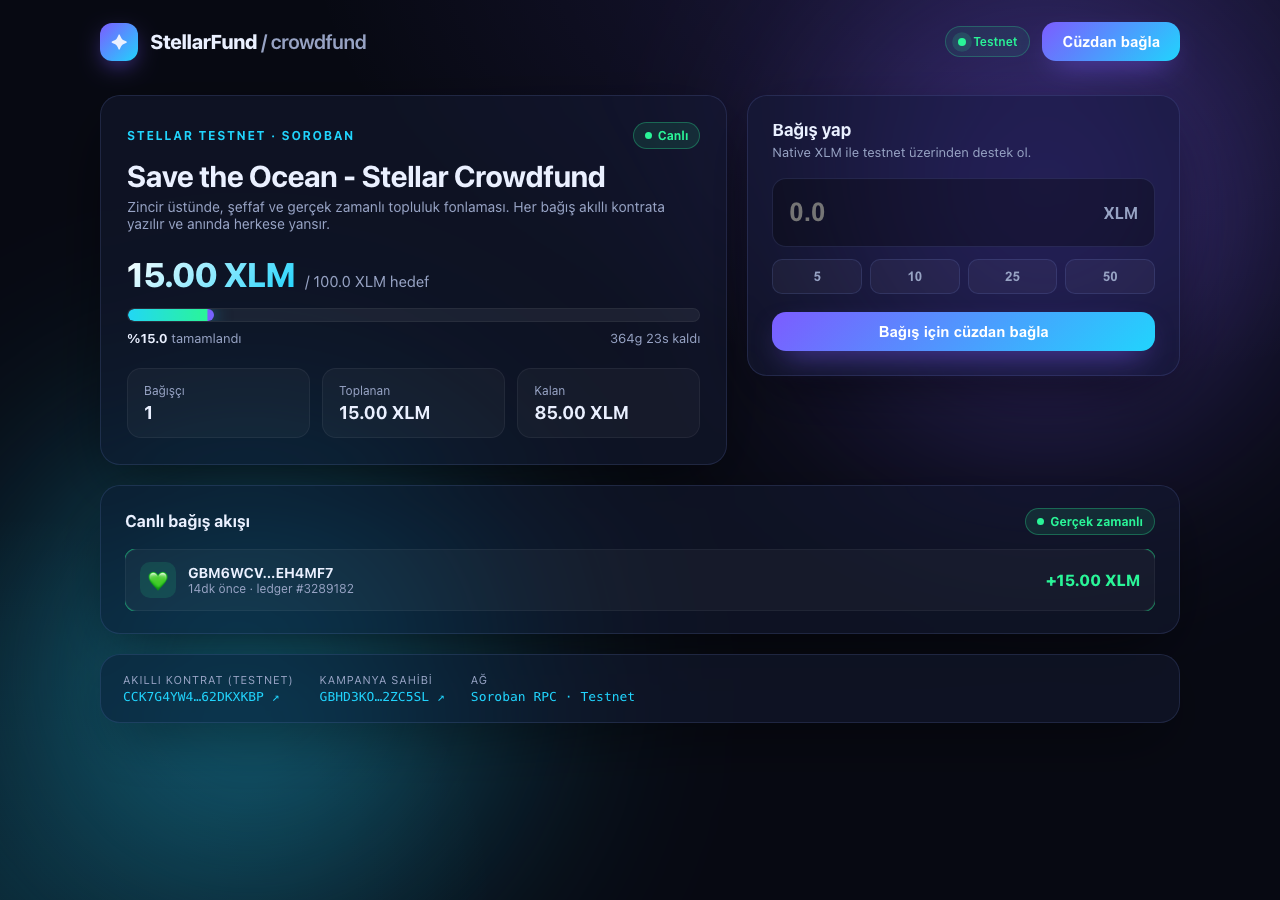
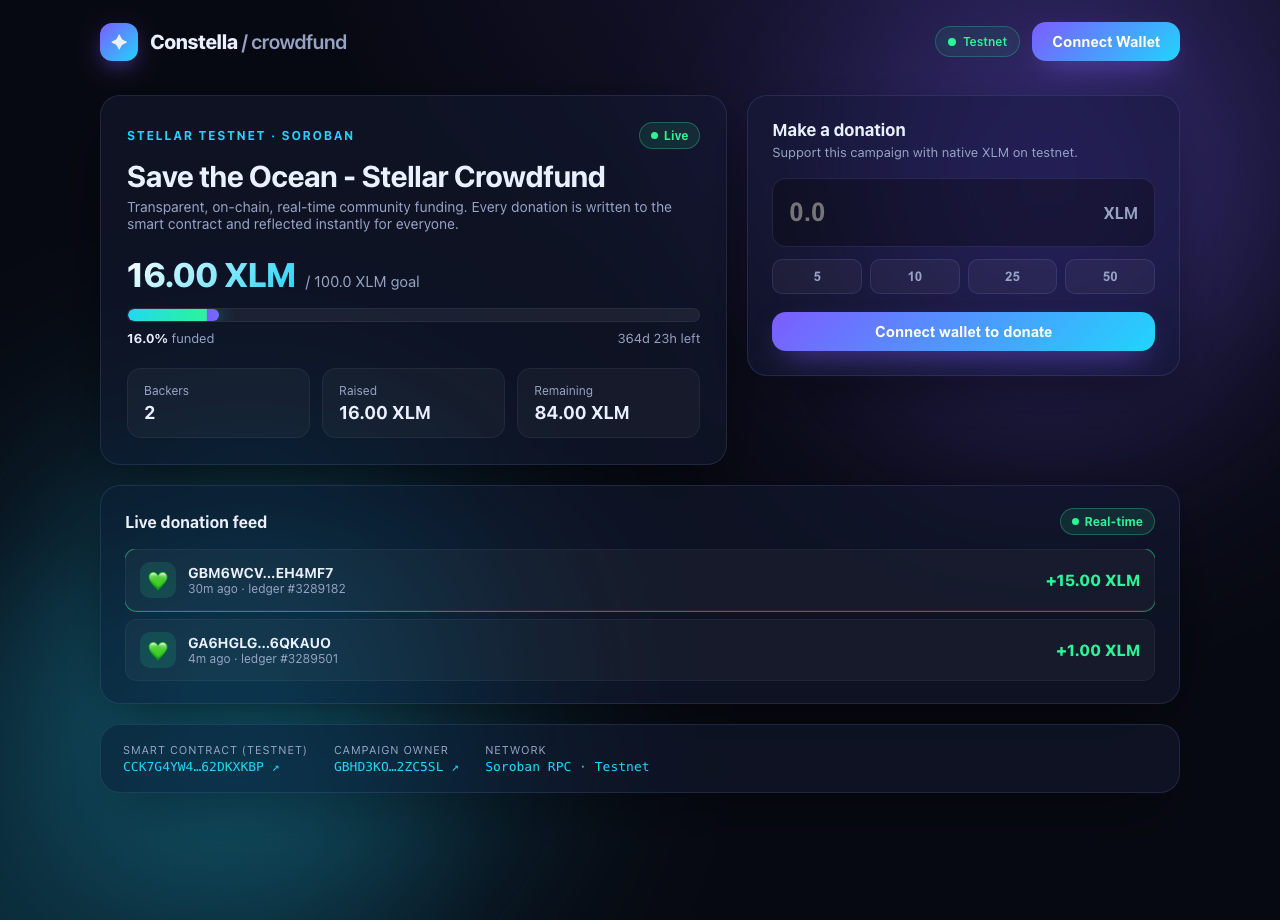
rebrand to Constella + English docs and donate-flow screenshots
App, title, README ve deploy.sh içinde isim Constella oldu; README
İngilizceye çevrildi; pending/success işlem ekranı görüntüleri eklendi.

diff --git a/frontend/index.html b/frontend/index.html
@@ -4,8 +4,8 @@
     <meta charset="UTF-8" />
     <link rel="icon" type="image/svg+xml" href="/favicon.svg" />
     <meta name="viewport" content="width=device-width, initial-scale=1.0" />
-    <meta name="description" content="StellarFund — real-time, transparent community crowdfunding on Stellar Soroban." />
-    <title>StellarFund · Soroban Crowdfunding</title>
+    <meta name="description" content="Constella — real-time, transparent community crowdfunding on Stellar Soroban." />
+    <title>Constella · Soroban Crowdfunding</title>
   </head>
   <body>
     <div id="root"></div>

diff --git a/frontend/src/App.tsx b/frontend/src/App.tsx
@@ -123,7 +123,7 @@ export default function App() {
           <div className="brand">
             <div className="logo">✦</div>
             <div>
-              StellarFund <span className="dim">/ crowdfund</span>
+              Constella <span className="dim">/ crowdfund</span>
             </div>
           </div>
           <div className="topbar-right">

diff --git a/README.md b/README.md
@@ -1,145 +1,151 @@
-# StellarFund — Soroban Crowdfunding dApp
+# Constella — Soroban Crowdfunding dApp
 
-> Stellar **Soroban** akıllı kontratı üzerinde çalışan, çoklu cüzdan destekli, **gerçek zamanlı** topluluk fonlama uygulaması. Her bağış zincire yazılır, kontrat event'leri canlı olarak akışa düşer ve ilerleme çubuğu anında güncellenir.
+> A multi-wallet, **real-time** community crowdfunding app running on a Stellar **Soroban** smart contract. Every donation is written on-chain, contract events stream into a live feed, and the progress bar updates instantly.
 
-Bu proje **Rise In · Stellar — Level 2 (Yellow Belt)** gereksinimlerini karşılamak için geliştirilmiştir.
+Built to satisfy the **Rise In · Stellar — Level 2 (Yellow Belt)** requirements.
 
 ---
 
-## 🔗 Önemli Bilgiler (Submission)
+## 🔗 Submission Info
 
 | | |
 |---|---|
-| **Deploy edilmiş kontrat (Testnet)** | [`CCK7G4YW4SYV5BEGMIHWRMXHRXYHIB7PIWEO76H7FLJAYSOK62DKXKBP`](https://stellar.expert/explorer/testnet/contract/CCK7G4YW4SYV5BEGMIHWRMXHRXYHIB7PIWEO76H7FLJAYSOK62DKXKBP) |
[2 lines of base64/hex data omitted]
-| **Ağ** | Stellar Testnet · Soroban RPC |
-| **Bağış token'ı** | Native XLM (Stellar Asset Contract) |
-| **Live demo** | _(opsiyonel — Vercel/Netlify'a deploy edilirse buraya eklenecek)_ |
+| **Deployed contract (Testnet)** | [`CCK7G4YW4SYV5BEGMIHWRMXHRXYHIB7PIWEO76H7FLJAYSOK62DKXKBP`](https://stellar.expert/explorer/testnet/contract/CCK7G4YW4SYV5BEGMIHWRMXHRXYHIB7PIWEO76H7FLJAYSOK62DKXKBP) |
[2 lines of base64/hex data omitted]
+| **Network** | Stellar Testnet · Soroban RPC |
+| **Donation token** | Native XLM (Stellar Asset Contract) |
+| **Live demo** | _(optional — to be added if deployed to Vercel/Netlify)_ |
 
 ---
 
-## 📸 Ekran Görüntüleri
+## 📸 Screenshots
 
-### Mevcut cüzdan seçenekleri (çoklu cüzdan)
-StellarWalletsKit ile Freighter, xBull, Albedo, LOBSTR, Rabet ve Hana desteklenir:
+### Available wallet options (multi-wallet)
+Powered by StellarWalletsKit — Freighter, xBull, Albedo, LOBSTR, Rabet and Hana:
 
-![Cüzdan seçenekleri](docs/screenshots/wallets.png)
+![Wallet options](docs/screenshots/wallets.png)
 
-### Ana ekran — canlı ilerleme & bağış akışı
-![Uygulama](docs/screenshots/app.png)
+### Main screen — live progress & donation feed
+![App](docs/screenshots/app.png)
 
----
+### Transaction status — pending steps
+![Donation pending](docs/screenshots/donate-pending.png)
 
-## ✨ Özellikler
-
-- **Çoklu cüzdan entegrasyonu** — `StellarWalletsKit` ile tek modaldan Freighter / xBull / Albedo / LOBSTR / Rabet / Hana bağlama.
-- **Akıllı kontrattan okuma & yazma** — `donate`, `withdraw`, `get_state`, `get_contribution`.
-- **Gerçek zamanlı event senkronizasyonu** — Soroban RPC `getEvents` ile `DonationEvent` polling; yeni bağışlar animasyonlu olarak akışa düşer ve ilerleme çubuğu canlı güncellenir.
-- **İşlem durumu takibi** — her işlem için `Hazırlanıyor → İmza → Zincire gönderildi → Başarılı/Hata` adımları ve doğrulanabilir explorer linki.
-- **3+ hata tipi yakalama** (aşağıdaki tablo).
-- **Animasyonlu, glassmorphism arayüz** — Framer Motion ile yumuşak geçişler, aurora arka plan, shimmer'lı progress bar.
+### Transaction status — success
+![Donation success](docs/screenshots/donate-success.png)
 
 ---
 
-## 🧯 Yakalanan Hata Tipleri
+## ✨ Features
 
-| Senaryo | Nereden gelir | Kullanıcıya gösterilen |
+- **Multi-wallet integration** — connect Freighter / xBull / Albedo / LOBSTR / Rabet / Hana from a single modal via `StellarWalletsKit`.
+- **Read & write to the smart contract** — `donate`, `withdraw`, `get_state`, `get_contribution`.
+- **Real-time event sync** — polls `DonationEvent` via Soroban RPC `getEvents`; new donations animate into the feed and the progress bar updates live.
+- **Transaction status tracking** — every action shows `Building → Signing → Submitted → Success/Error` steps with a verifiable explorer link.
+- **3+ error types handled** (see table below).
+- **Animated glassmorphism UI** — smooth transitions with Framer Motion, an aurora background and a shimmering progress bar.
+
+---
+
+## 🧯 Handled Error Types
+
+| Scenario | Source | Shown to user |
 |---|---|---|
-| **Cüzdan bulunamadı** | Seçilen cüzdan kurulu/etkin değil | "Cüzdan bulunamadı — kur ve tekrar dene" |
-| **Kullanıcı reddetti** | İmza penceresinde iptal | "İşlem reddedildi" |
-| **Yetersiz bakiye** | XLM yetersiz / underfunded | "Yetersiz bakiye" |
-| **Geçersiz tutar** | Kontrat `InvalidAmount` (`#3`) | "Bağış tutarı 0'dan büyük olmalı" |
-| **Süre doldu** | Kontrat `DeadlinePassed` (`#4`) | "Kampanyanın son tarihi geçti" |
-| **Hedefe ulaşılmadı** | Kontrat `GoalNotReached` (`#5`) | "Hedefe ulaşılmadan fon çekilemez" |
+| **Wallet not found** | Selected wallet not installed/enabled | "Wallet not found — install it and try again" |
+| **User rejected** | Cancelled in the signing window | "Request rejected" |
+| **Insufficient balance** | Not enough XLM / underfunded | "Insufficient balance" |
+| **Invalid amount** | Contract `InvalidAmount` (`#3`) | "Donation amount must be greater than 0" |
+| **Campaign ended** | Contract `DeadlinePassed` (`#4`) | "The campaign deadline has passed" |
+| **Goal not reached** | Contract `GoalNotReached` (`#5`) | "Funds can't be withdrawn before the goal is met" |
 
-Hata eşleme mantığı: [`frontend/src/stellar.ts → parseError()`](frontend/src/stellar.ts).
+Error mapping logic: [`frontend/src/stellar.ts → parseError()`](frontend/src/stellar.ts).
 
 ---
 
-## 🏗️ Mimari
+## 🏗️ Architecture
 
 ```text
 .
-├── contracts/crowdfunding/        # Soroban akıllı kontrat (Rust)
+├── contracts/crowdfunding/        # Soroban smart contract (Rust)
 │   ├── src/lib.rs                 # initialize / donate / withdraw / get_state / get_contribution
-│   └── src/test.rs                # 7 birim testi (hata yolları dahil)
+│   └── src/test.rs                # 7 unit tests (incl. error paths)
 ├── frontend/                      # React + Vite + TypeScript dApp
 │   └── src/
-│       ├── wallet.ts              # StellarWalletsKit (çoklu cüzdan)
-│       ├── stellar.ts             # kontrat çağrıları + event polling + hata eşleme
-│       ├── hooks/useCampaign.ts   # state & event gerçek zamanlı senkronizasyonu
+│       ├── wallet.ts              # StellarWalletsKit (multi-wallet)
+│       ├── stellar.ts             # contract calls + event polling + error mapping
+│       ├── hooks/useCampaign.ts   # real-time state & event sync
 │       └── components/            # CampaignCard, DonatePanel, ActivityFeed, TxStatusModal...
-├── scripts/deploy.sh              # tek komutla deploy + initialize
+├── scripts/deploy.sh              # one-command deploy + initialize
 └── README.md
 ```
 
-### Akıllı kontrat fonksiyonları
+### Smart contract functions
 
-| Fonksiyon | Tip | Açıklama |
+| Function | Type | Description |
 |---|---|---|
-| `initialize(admin, token, title, goal, deadline)` | write | Kampanyayı kurar |
-| `donate(donor, amount)` | write | Token'ı bağışçıdan kontrata aktarır, `DonationEvent` yayar |
-| `withdraw()` | write | Hedefe ulaşıldıysa fonu admin'e aktarır (`WithdrawEvent`) |
-| `get_state()` | read | Hedef, toplanan, bağışçı sayısı, son tarih, durum |
-| `get_contribution(donor)` | read | Bir adresin toplam bağışı |
+| `initialize(admin, token, title, goal, deadline)` | write | Sets up the campaign |
+| `donate(donor, amount)` | write | Transfers token from donor to contract, emits `DonationEvent` |
+| `withdraw()` | write | Transfers funds to admin once the goal is reached (`WithdrawEvent`) |
+| `get_state()` | read | Goal, raised, backers, deadline, status |
+| `get_contribution(donor)` | read | An address's total contribution |
 
 ---
 
-## 🚀 Kurulum
+## 🚀 Setup
 
-### Önkoşullar
+### Prerequisites
 - [Node.js](https://nodejs.org) 18+
-- [Rust](https://rustup.rs) + `wasm32v1-none` hedefi
+- [Rust](https://rustup.rs) + the `wasm32v1-none` target
 - [Stellar CLI](https://developers.stellar.org/docs/tools/cli) 23+
-- Tarayıcıda bir Stellar cüzdanı (örn. [Freighter](https://www.freighter.app/)) — Testnet modunda
+- A Stellar wallet in the browser (e.g. [Freighter](https://www.freighter.app/)) set to **Testnet**
 
-### 1) Frontend'i çalıştır
+### 1) Run the frontend
 ```bash
 cd frontend
 npm install
-cp .env.example .env     # opsiyonel — varsayılan kontrat zaten gömülü
+cp .env.example .env     # optional — the default contract is already baked in
 npm run dev
 ```
-Uygulama `http://localhost:5173` adresinde açılır. Kontrat zaten testnet'e deploy edilmiş olduğu için **ek kuruluma gerek kalmadan** çalışır.
+The app opens at `http://localhost:5173`. The contract is already deployed to testnet, so it works **without any extra setup**.
 
-### 2) (Opsiyonel) Kontratı kendin deploy et
+### 2) (Optional) Deploy the contract yourself
 ```bash
-# kontrat testleri
+# contract tests
 cargo test -p crowdfunding
 
-# tek komutla derle + deploy + initialize (funded testnet kimliği oluşturur)
+# build + deploy + initialize in one command (creates a funded testnet identity)
 ./scripts/deploy.sh
 
-# çıktıdaki CONTRACT_ID'yi frontend/.env içine yaz:
-#   VITE_CONTRACT_ID=<yeni_id>
+# write the printed CONTRACT_ID into frontend/.env:
+#   VITE_CONTRACT_ID=<new_id>
 ```
 
-### 3) Cüzdana testnet XLM al
-[Freighter](https://www.freighter.app/) → ağı **Testnet** yap → "Fund with Friendbot" ile bakiye yükle, sonra uygulamadan bağış yap.
+### 3) Get testnet XLM
+[Freighter](https://www.freighter.app/) → switch network to **Testnet** → "Fund with Friendbot", then donate from the app.
 
 ---
 
-## 🔄 Gerçek zamanlı akış nasıl çalışır?
+## 🔄 How the real-time flow works
 
-1. Kullanıcı bağış yapar → `donate` çağrısı simüle edilir (auth + `prepareTransaction`).
-2. İşlem cüzdanda imzalanır ve ağa gönderilir; durum `pending → success` olarak takip edilir.
-3. Kontrat `DonationEvent { donor, amount, total_raised }` yayar.
-4. Frontend `getEvents`'i 4 sn'de bir cursor ile yoklar; yeni event'ler **canlı akışa** animasyonla düşer ve `get_state` tazelenerek ilerleme çubuğu güncellenir.
-
----
-
-## ✅ Level 2 Gereksinim Kontrolü
-
-- [x] Çoklu cüzdan entegrasyonu (StellarWalletsKit)
-- [x] 3+ hata tipi yakalandı
-- [x] Kontrat testnet'e deploy edildi
-- [x] Kontrat frontend'den çağrıldı
-- [x] İşlem durumu görünür (pending/success/fail)
-- [x] Gerçek zamanlı event entegrasyonu
-- [x] 2+ anlamlı commit
+1. The user donates → the `donate` call is simulated (auth + `prepareTransaction`).
+2. The transaction is signed in the wallet and submitted; status is tracked `pending → success`.
+3. The contract emits `DonationEvent { donor, amount, total_raised }`.
+4. The frontend polls `getEvents` every 4s with a cursor; new events animate into the **live feed** and `get_state` refreshes so the progress bar updates.
 
 ---
 
-## 🛠️ Teknolojiler
+## ✅ Level 2 Requirement Checklist
+
+- [x] Multi-wallet integration (StellarWalletsKit)
+- [x] 3+ error types handled
+- [x] Contract deployed on testnet
+- [x] Contract called from the frontend
+- [x] Transaction status visible (pending/success/fail)
+- [x] Real-time event integration
+- [x] 2+ meaningful commits
+
+---
+
+## 🛠️ Tech Stack
 Rust · Soroban SDK 25 · Stellar CLI · React 19 · Vite · TypeScript · @stellar/stellar-sdk · @creit.tech/stellar-wallets-kit · Framer Motion